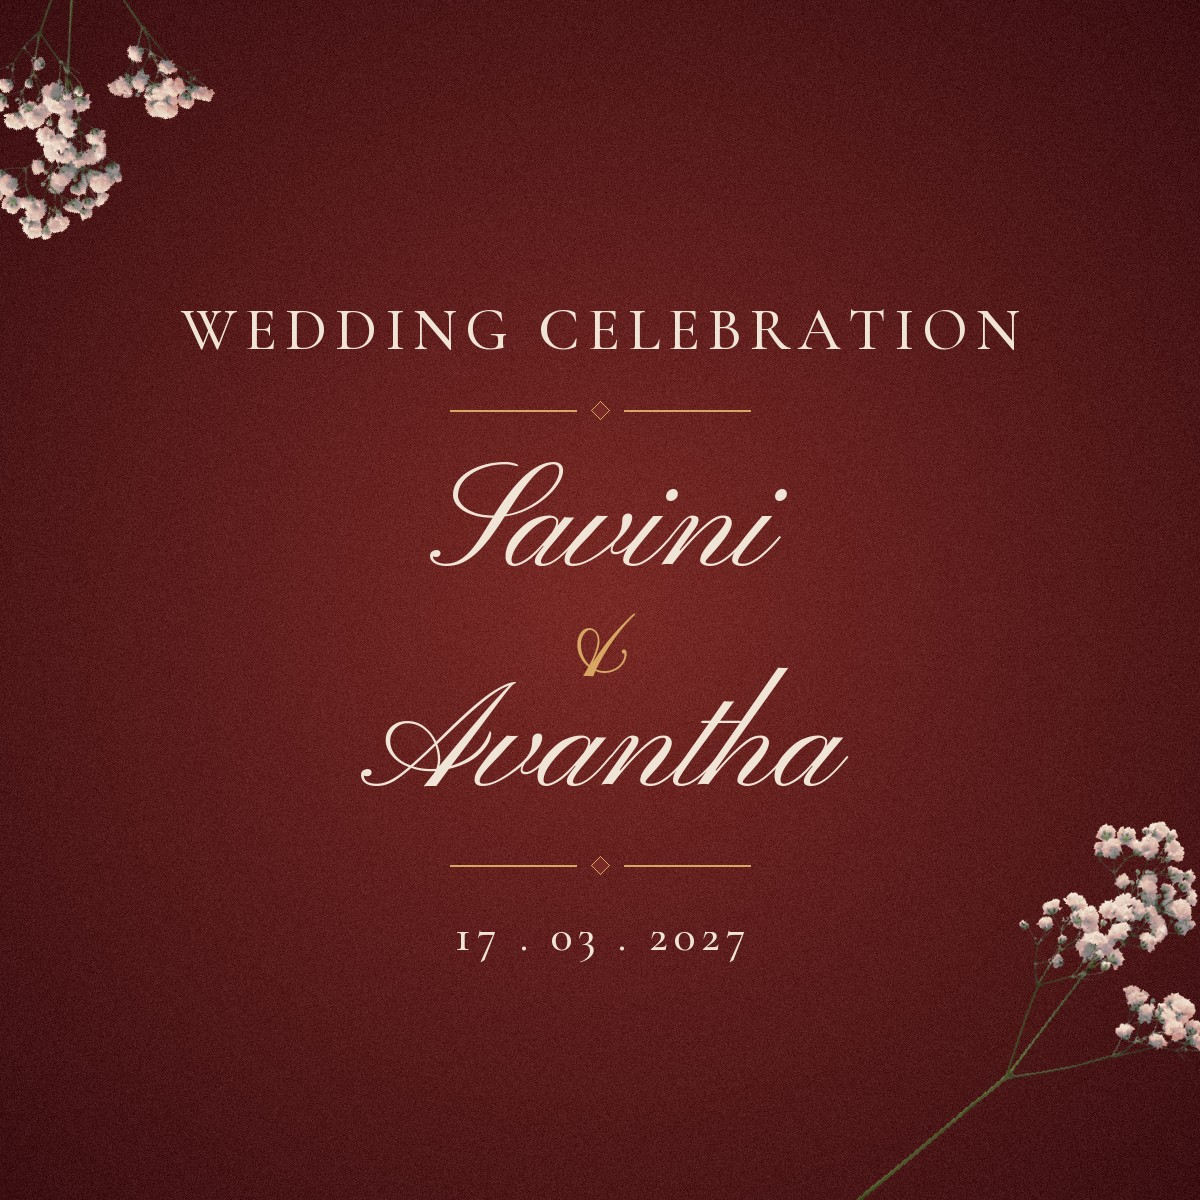
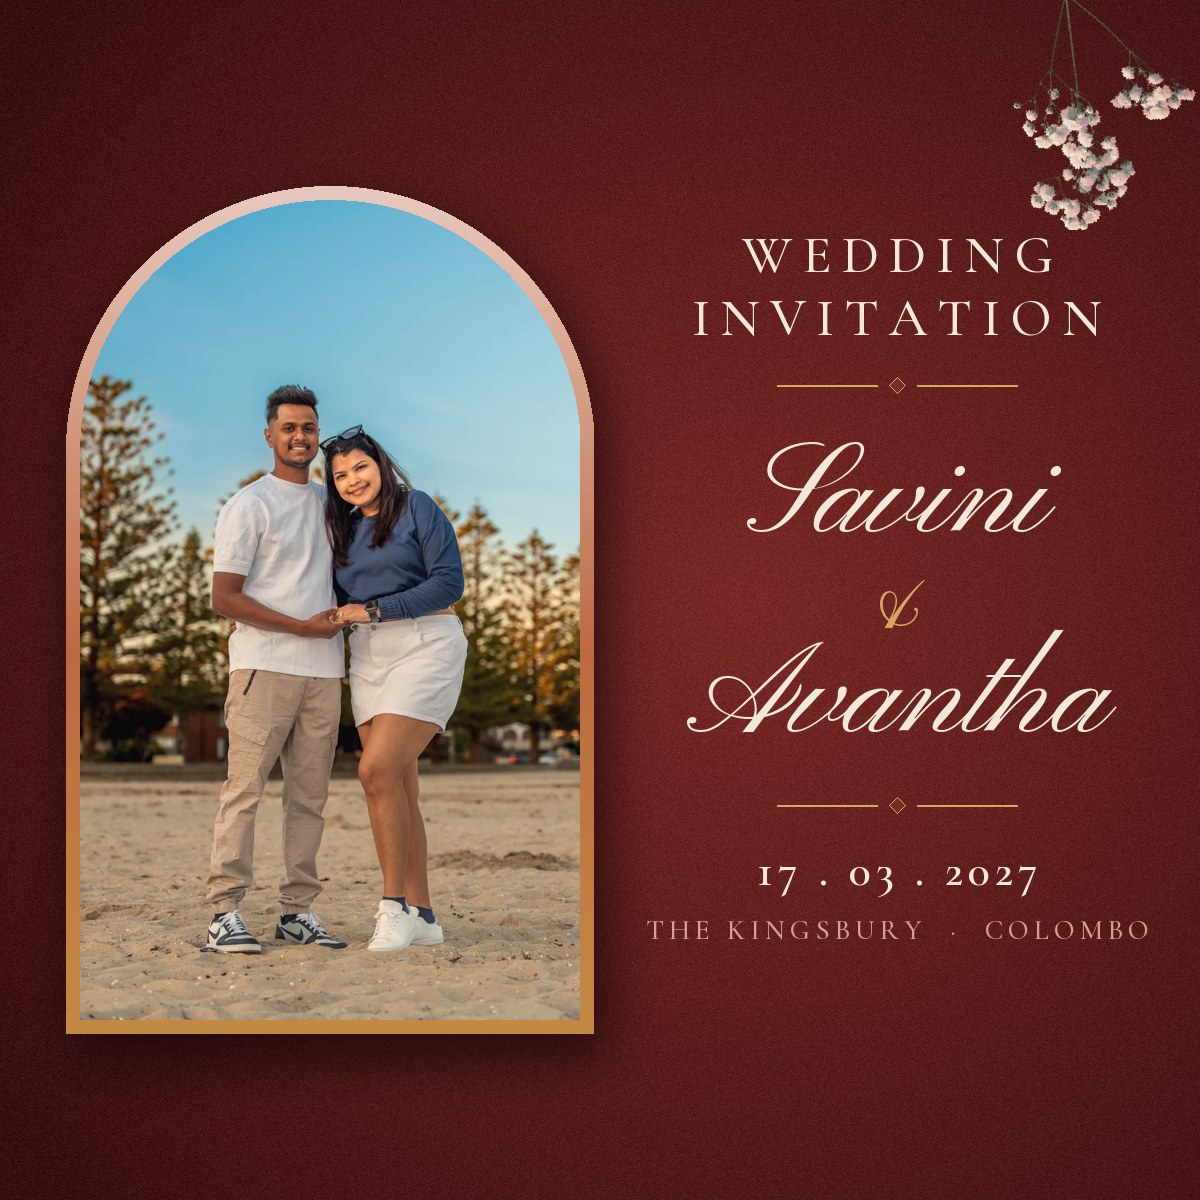
Add 1:1 wedding invitation preview image and set site URL

diff --git a/lib/wedding.ts b/lib/wedding.ts
@@ -7,7 +7,7 @@ export const wedding = {
 
   // Public address of the site, used for guest links and link previews.
   // Leave empty to use whatever domain the admin page is opened on.
-  baseUrl: "",
+  baseUrl: "https://savini-and-avantha-weddinginvitatio.vercel.app",
 
   eventName: "Wedding Celebration",
   dateShort: "17 . 03 . 27",
@@ -78,7 +78,7 @@ export const brideName = wedding.partner1;
 export const groomName = wedding.partner2;
 
 // Link-preview image for WhatsApp, Facebook, etc.
-export const ogImage = { url: "/assets/og-image.jpg", width: 1200, height: 1200, alt: `${coupleNames} · ${wedding.eventName}` };
+export const ogImage = { url: "/assets/og-image.jpg?v=2", width: 1200, height: 1200, alt: `${coupleNames} · Wedding Invitation` };
 
 export const mapsLink =
   "https://www.google.com/maps/search/?api=1&query=" + encodeURIComponent(wedding.venue.mapQuery);
